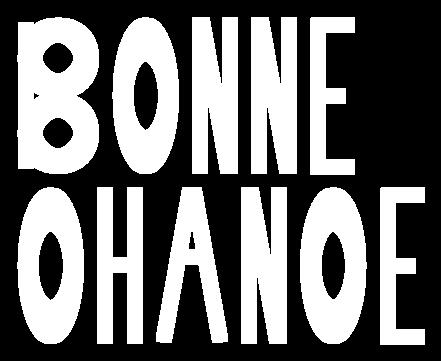
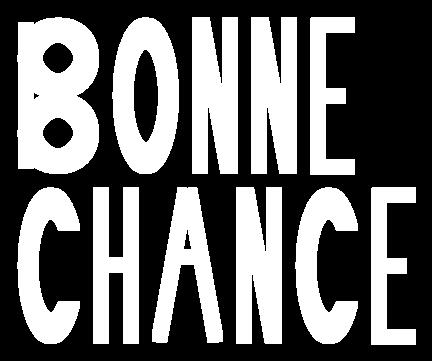
C

diff --git a/src/main/java/Letter/LetterFactory.java b/src/main/java/Letter/LetterFactory.java
@@ -65,7 +65,11 @@ public final class LetterFactory {
      * @return BaseShape containing the letter C
      */
     public static BaseShape create_C() {
-        return new Ellipse(maxWidth, maxHeight).remove(new Ellipse(halfMaxWidth, halfMaxHeight));
+        BaseShape OCreated = create_O();
+        Rectangle rectangle = new Rectangle(halfMaxWidth, halfMaxHeight);
+        Point2d p1 = new Point2d(stripeThickness*1.3, 0.0);
+        rectangle.translate(rectangle.getCoords(), p1);
+        return create_O().remove(rectangle);
     }
 
     /** TODO
@@ -152,6 +156,6 @@ public final class LetterFactory {
      * @return BaseShape containing the letter O
      */
     public static BaseShape create_O() {
-        return new Ellipse(maxWidth, maxHeight).remove(new Ellipse(halfMaxWidth, halfMaxHeight));
+        return new Ellipse(maxWidth, maxHeight).remove(new Ellipse(halfMaxWidth, maxHeight/1.5));
     }
 }
